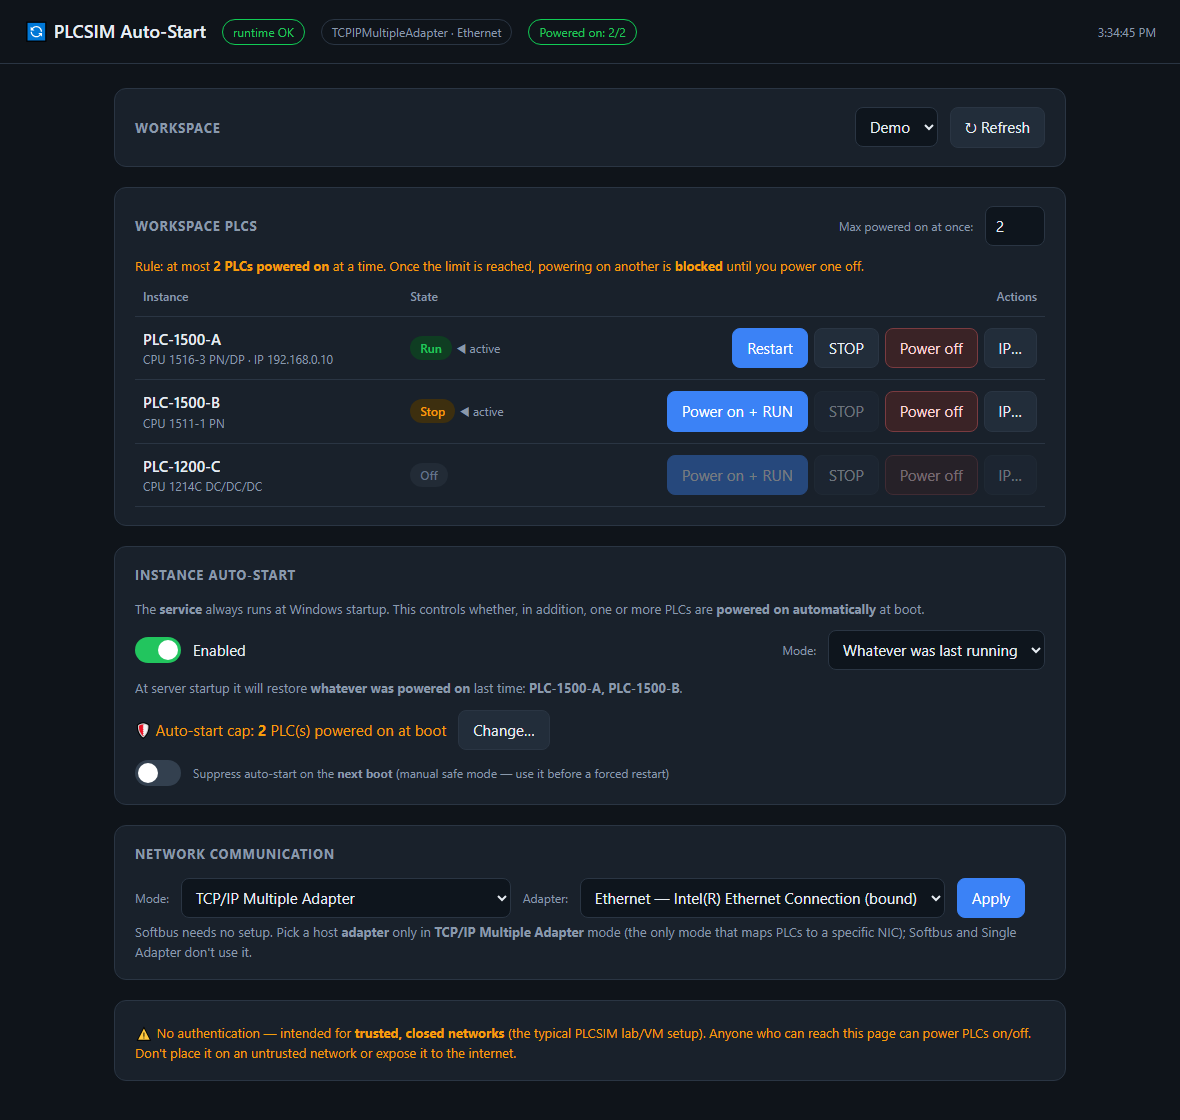
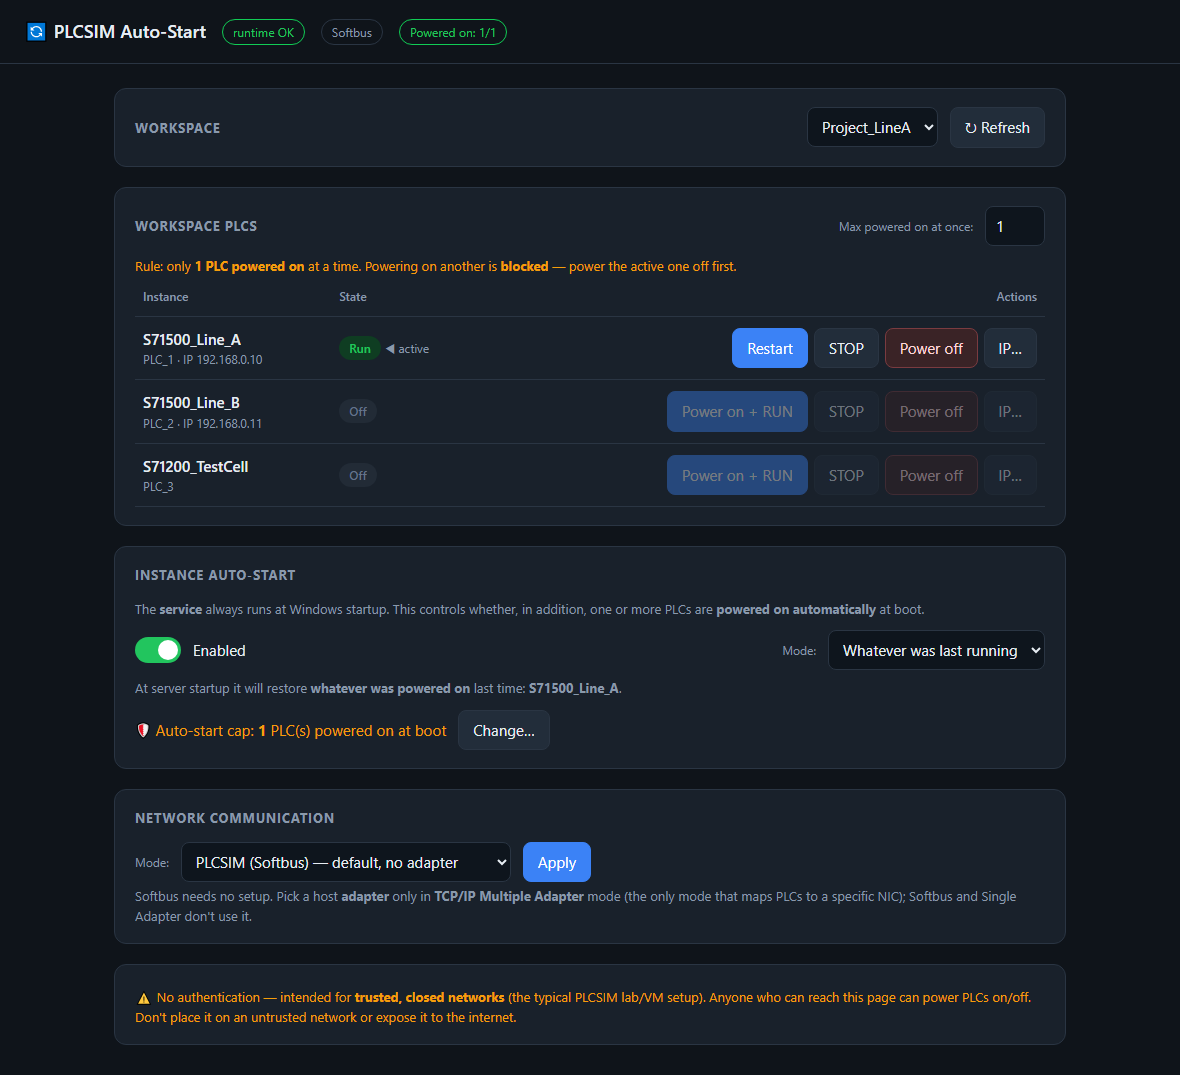
Remove manual SAFEMODE suppress flag (redundant with disabling auto-start)
The "suppress auto-start on the next boot" flag was a persistent on-disk
flag that never auto-cleared, making it functionally identical to simply
turning auto-start off. Removed it and all its references:

- backend: drop the SAFEMODE flag branch, the safemode endpoint, and
  BootGuard.FlagFile/FlagPresent/SetFlag; clear-safemode now only resets
  the boot-attempt counter; suppressNextBoot removed from status.
- UI: remove the suppress toggle row and its handler.
- docs/.gitignore: drop SAFEMODE references in README, TROUBLESHOOTING,
  CHANGELOG and .gitignore.
- regenerate docs/ui.png.

The automatic loop-breaker (SAFE MODE after N non-stabilizing boots, its
red banner, and the Re-enable button) is unchanged.

diff --git a/wwwroot/index.html b/wwwroot/index.html
@@ -122,10 +122,6 @@
       <span>🛡️ Auto-start cap: <b id="hardVal">1</b> PLC(s) powered on at boot</span>
       <button id="hardChange">Change…</button>
     </div>
-    <div class="row" style="margin-top:10px">
-      <label class="toggle"><input type="checkbox" id="suppressNext"><span></span></label>
-      <span class="sub">Suppress auto-start on the <b>next boot</b> (manual safe mode — use it before a forced restart)</span>
-    </div>
   </div>
 
   <div class="card">
@@ -266,7 +262,6 @@ function renderControls(){
     ? 'At server startup it will always start the selected fixed instance.'
     : ('At server startup it will restore <b>whatever was powered on</b> last time'+(last.length?': <b>'+last.join(', ')+'</b>':' (right now: none)')+'.');
   $('#hardVal').textContent = hard;
-  if(document.activeElement!==$('#suppressNext')) $('#suppressNext').checked = !!S.suppressNextBoot;
 
   // network (don't clobber an unapplied selection: skip while the user has changes pending)
   if(!netDirty && document.activeElement!==$('#netMode')) $('#netMode').value = S.network.mode;
@@ -311,7 +306,6 @@ $('#hardConfirm').onclick = async () => {
 };
 
 $('#safeClear').onclick = async () => { const r=await api('clear-safemode',{}); toast(r.message,r.ok); await load(); };
-$('#suppressNext').onchange = async e => { const r=await api('safemode',{enabled:e.target.checked}); toast(r.message,r.ok); await load(); };
 $('#netMode').onchange = () => { netDirty=true; $('#adapterWrap').style.display = ($('#netMode').value==='TCPIPMultipleAdapter') ? 'inline-flex' : 'none'; };
 $('#netAdapter').onchange = () => { netDirty=true; };
 $('#netSave').onclick = async () => {

diff --git a/src/PlcsimAutoStart.cs b/src/PlcsimAutoStart.cs
@@ -15,7 +15,7 @@
 //     last shutdown; mode "fixed" always starts one chosen instance.
 //   * Boot protections against a freeze/restart loop: a boot-attempt counter that only resets
 //     after the service stays healthy for a while (verified by repeated self HTTP /health probes),
-//     a staggered start, and a manual SAFEMODE flag file.
+//     plus a staggered start.
 //   * Optional networking: PLCSIM Softbus (default, zero-config) or TCP/IP mapped to a host
 //     network adapter for real Ethernet communication.
 //
@@ -103,15 +103,8 @@ internal static class Program
             // Instance auto-start WITH PROTECTIONS (loop-breaker + manual flag + staggered start).
             if (_cfg.AutostartEnabled)
             {
-                bool flag = BootGuard.FlagPresent(exeDir);
                 int attempts = BootGuard.ReadAttempts(exeDir);
-                if (flag)
-                {
-                    _plc.SafeMode = true;
-                    _plc.SafeModeReason = "Manual SAFE MODE is active (SAFEMODE flag file present). Auto-start was skipped this boot.";
-                    Log.Write("SAFE MODE (manual): SAFEMODE flag file present. Auto-start SKIPPED.");
-                }
-                else if (attempts >= _cfg.BootFailLimit)
+                if (attempts >= _cfg.BootFailLimit)
                 {
                     _plc.SafeMode = true;
                     _plc.SafeModeReason = "Detected " + attempts + " boots that never stabilized (possible freeze loop). Auto-start was skipped. Check the load / safety cap, then re-enable.";
@@ -371,11 +364,10 @@ internal sealed class ActionResult
     public static ActionResult Bad(string m) { return new ActionResult { Ok = false, Message = m }; }
 }
 
-// Boot protections: on-disk attempt counter (loop-breaker) + manual SAFEMODE flag file.
+// Boot protection: on-disk attempt counter for the freeze-loop breaker.
 internal static class BootGuard
 {
     private static string StateFile(string dir) { return System.IO.Path.Combine(dir, "boot-state.txt"); }
-    private static string FlagFile(string dir) { return System.IO.Path.Combine(dir, "SAFEMODE"); }
 
     public static int ReadAttempts(string dir)
     {
@@ -401,22 +393,6 @@ internal static class BootGuard
         try { File.WriteAllText(StateFile(dir), "attempts=" + n + "\r\n"); }
         catch (Exception ex) { Log.Write("WARN BootGuard.WriteAttempts: " + ex.Message); }
     }
-
-    public static bool FlagPresent(string dir)
-    {
-        try { return File.Exists(FlagFile(dir)); } catch { return false; }
-    }
-
-    public static void SetFlag(string dir, bool on)
-    {
-        try
-        {
-            string f = FlagFile(dir);
-            if (on) { if (!File.Exists(f)) File.WriteAllText(f, "Presence of this file = DO NOT auto-start any instance on the next boot (manual safe mode).\r\n"); }
-            else if (File.Exists(f)) File.Delete(f);
-        }
-        catch (Exception ex) { Log.Write("WARN BootGuard.SetFlag: " + ex.Message); }
-    }
 }
 
 internal sealed class PlcManager
@@ -424,7 +400,7 @@ internal sealed class PlcManager
     private readonly Config _cfg;
     private readonly object _gate = new object();   // serializes all power operations -> enforces the limit atomically
 
-    // Safe mode: auto-start was skipped this boot (by the loop-breaker or the manual flag).
+    // Safe mode: the loop-breaker skipped auto-start this boot after repeated non-stabilizing boots.
     public volatile bool SafeMode = false;
     public string SafeModeReason = "";
 
@@ -956,7 +932,6 @@ internal sealed class WebServer
                     { "hardMaxPoweredOn", _cfg.HardMaxPoweredOn },
                     { "safeMode", _plc.SafeMode },
                     { "safeModeReason", _plc.SafeModeReason },
-                    { "suppressNextBoot", BootGuard.FlagPresent(_exeDir) },
                     { "network", new Dictionary<string,object> { { "mode", _cfg.NetworkMode }, { "adapterIndex", _cfg.AdapterIndex }, { "adapterName", _cfg.AdapterName } } },
                     { "autostart", new Dictionary<string,object> { { "enabled", _cfg.AutostartEnabled }, { "mode", _cfg.AutostartMode }, { "instance", _cfg.AutostartInstance }, { "last", _cfg.LastRunning } } },
                 });
@@ -1020,23 +995,11 @@ internal sealed class WebServer
                     WriteResult(ctx, ActionResult.Good("Auto-start cap = " + newHard + " (auto-start brings up at most " + newHard + " PLC" + (newHard == 1 ? "" : "s") + " after a reboot)"));
                     return;
                 }
-            case "safemode":
-                {
-                    bool on = true;
-                    if (body != null && body.ContainsKey("enabled")) { try { on = Convert.ToBoolean(body["enabled"]); } catch { } }
-                    else if (!string.IsNullOrEmpty(q["enabled"])) on = (q["enabled"] == "1" || string.Equals(q["enabled"], "true", StringComparison.OrdinalIgnoreCase));
-                    BootGuard.SetFlag(_exeDir, on);
-                    WriteResult(ctx, ActionResult.Good(on
-                        ? "Safe mode ARMED: the next boot will NOT auto-start instances."
-                        : "Safe mode disarmed: the next boot will auto-start normally."));
-                    return;
-                }
             case "clear-safemode":
                 {
-                    BootGuard.SetFlag(_exeDir, false);
                     BootGuard.WriteAttempts(_exeDir, 0);
                     _plc.SafeMode = false; _plc.SafeModeReason = "";
-                    WriteResult(ctx, ActionResult.Good("Auto-start re-enabled: boot-attempt counter reset and safe-mode flag cleared."));
+                    WriteResult(ctx, ActionResult.Good("Auto-start re-enabled: boot-attempt counter reset."));
                     return;
                 }
             case "network":

diff --git a/docs/TROUBLESHOOTING.md b/docs/TROUBLESHOOTING.md
@@ -43,8 +43,8 @@ Start-Service "PLCSIM AutoStart"           # or: Start-ScheduledTask -TaskName "
 ```
 
 ## Red "SAFE MODE" banner
-Repeated boots never stabilized (or the `SAFEMODE` flag is set), so auto-start was skipped on purpose.
-If it's overloaded, lower `max_powered_on` / `hard_max_powered_on`, then click **Re-enable auto-start**.
+Repeated boots never stabilized, so the loop-breaker skipped auto-start on purpose. If it's overloaded,
+lower the **auto-start cap** (`hard_max_powered_on`), then click **Re-enable auto-start**.
 
 ## A second PLC won't power on
 The limiter. Raise **Max powered on** in the UI (it can't exceed `hard_max_powered_on`) or power one off.

diff --git a/CHANGELOG.md b/CHANGELOG.md
@@ -20,8 +20,7 @@ First public release.
   - boot-attempt counter that enters SAFE MODE after N non-stabilizing boots,
   - a "clean boot" check gated on repeated self `/health` probes (detects a soft freeze where
     processes stay alive but the web layer becomes unresponsive),
-  - staggered start (one instance at a time, abort on failure),
-  - a manual `SAFEMODE` flag file / UI toggle to suppress auto-start on the next boot.
+  - staggered start (one instance at a time, abort on failure).
 - **Per-PLC IP override** that is re-applied on every power-on.
 - Networking via **Softbus** (default, zero-config) or **TCP/IP** mapped to a host adapter.
 - Self-contained: builds with the in-box .NET Framework `csc.exe` (no Visual Studio / .NET SDK),

diff --git a/README.md b/README.md
@@ -93,8 +93,7 @@ the next boot stays within the safe number.
 **Loop-breaker.** A counter is bumped before each auto-start and reset only after the service passes
 repeated `/health` probes for a while — so a *soft freeze* (alive but unresponsive) won't clear it.
 After `boot_fail_limit` boots that never stabilize, the service enters **SAFE MODE**: no auto-start, a
-red banner in the UI, and a *Re-enable* button. You can also arm it yourself before forcing a restart
-(UI toggle or the `SAFEMODE` file).
+red banner in the UI, and a *Re-enable* button.
 
 Every value is tunable in [docs/CONFIGURATION.md](docs/CONFIGURATION.md).
 